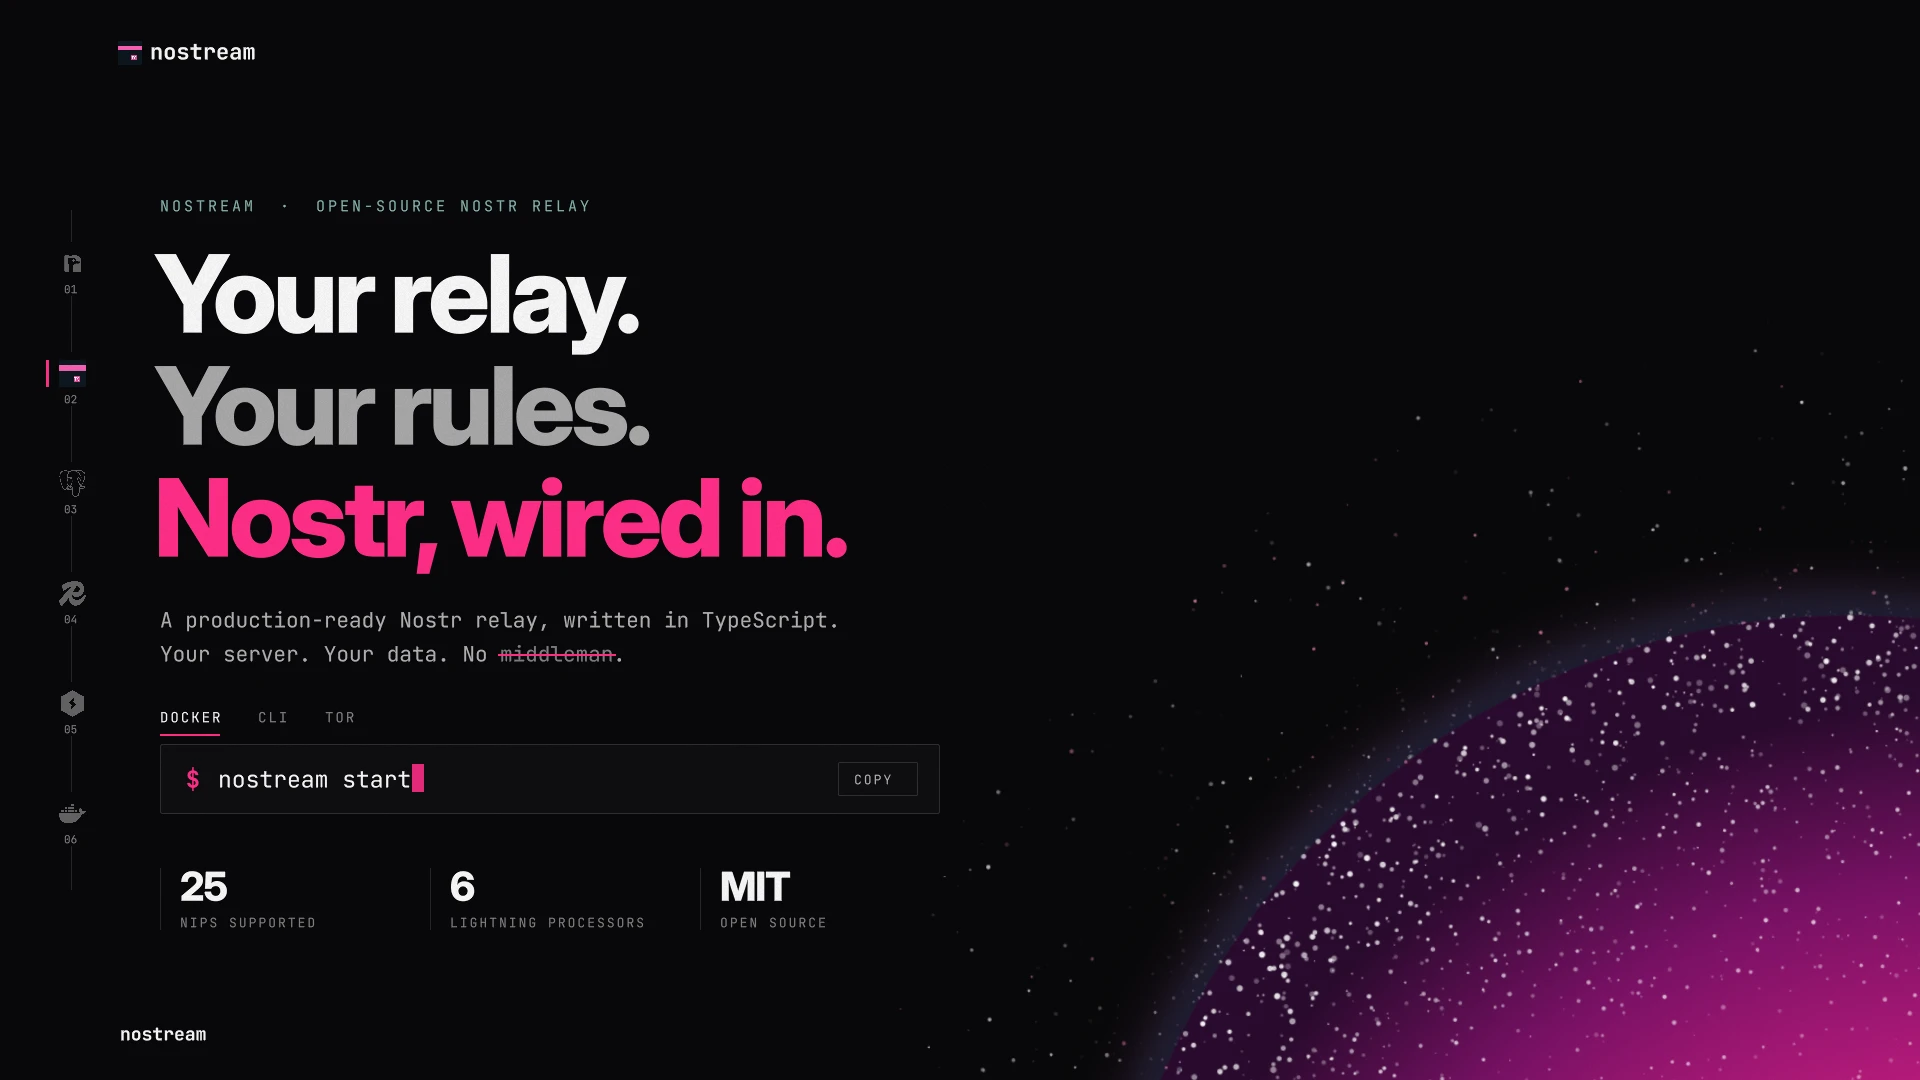
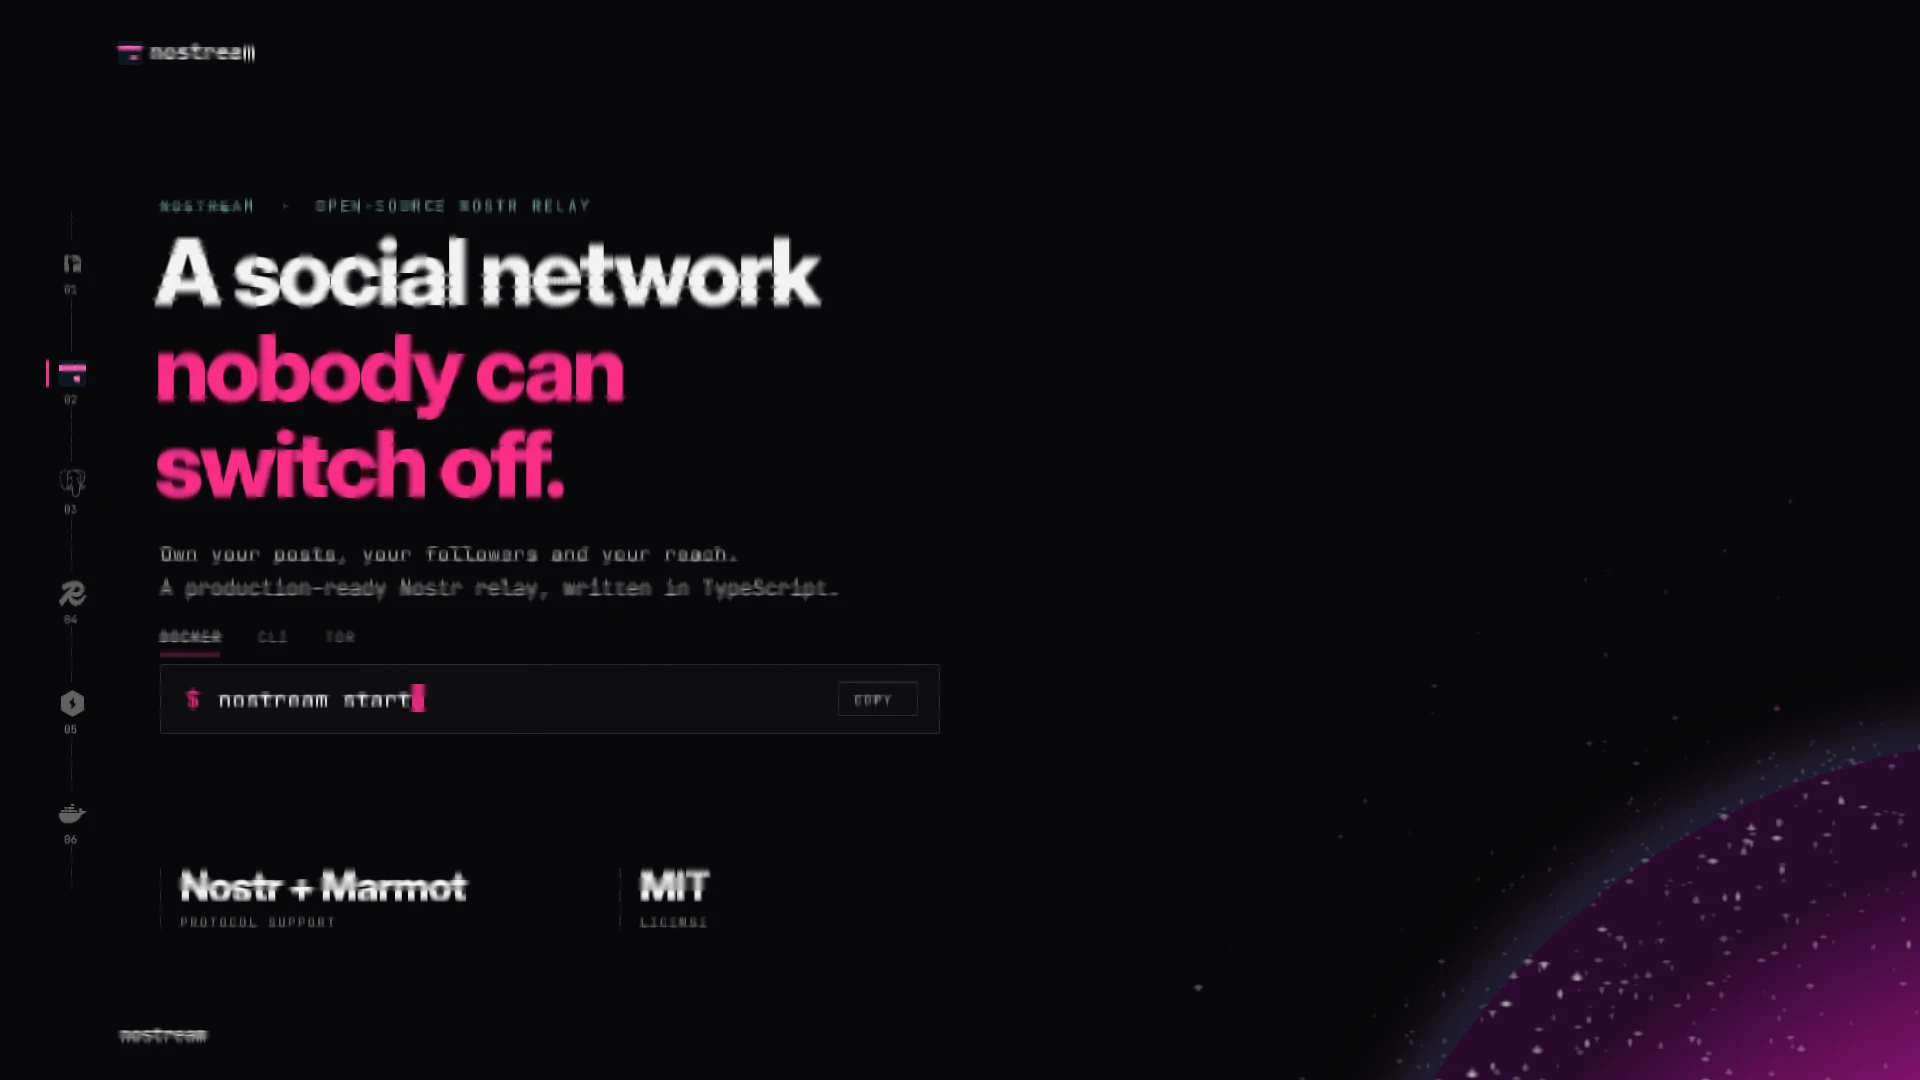
feat(website): add a social preview card and the full preview meta set (#884)
* feat(website): add a social preview card and the full preview meta set

The site shipped an og:image pointing at hero-poster.webp — a 16:9 still of the
film, which crops badly in a preview card and names the project only in passing.

scripts/build-social-card.mjs now renders one composition at both sizes the two
services want:

  public/media/social-card.png           1200x630  og:image
  public/media/github-social-preview.png 1280x640  repository social preview

Committed rather than built in CI: astro build never runs `pnpm run media`, so a
generated-not-committed file would not be in dist/ either, and the og:image URL
would 404 in the deploy. `pnpm run social` regenerates them.

Text is drawn as SVG over the woff2 files from @fontsource-variable/inter and
@fontsource/jetbrains-mono — the same packages global.css imports — so a CI
runner without Inter installed cannot silently swap the face. The backdrop is
the page's own planet at public/media/planet.webp plus the 28px dot grid from
global.css; the hero's spark stream is left out, since a still frame holds every
particle at once and the density reads as noise under the copy.

Base.astro emits the rest of the preview set: og:site_name, og:locale,
og:image:width/height/type, og:image:alt, twitter:image, twitter:image:alt,
twitter:title and twitter:description, and takes an ogImage prop that defaults
to the card. The size hints are emitted only for that card, so a caller passing
[…]

diff --git a/website/hero-animation/src/film.ts b/website/hero-animation/src/film.ts
@@ -7,7 +7,6 @@ import {
   BODY,
   DURATION,
   FG,
-  FG_2,
   FONT_MONO,
   FONT_SANS,
   FPS,
@@ -211,16 +210,17 @@ export async function buildFilm(): Promise<Composition> {
 
   const planetSize = 1700
   const haloSize = planetSize * (2000 / 1600)
+  const planetX = 1210
   const planetY: Key[] = [
-    [0, 1100],
-    [60, 520, 'power3.out'],
-    [HERO.end - 10, 505],
-    [WHAT.start + 25, 700, 'power2.inOut'],
-    [WHAT.end - 20, 710],
-    [FLOW.start + 20, 790, 'power2.inOut'],
-    [FEATURES.end - 20, 820],
-    [DEPLOY.start + 30, 500, 'power3.out'],
-    [LAST, 480],
+    [0, 1210],
+    [60, 640, 'power3.out'],
+    [HERO.end - 10, 625],
+    [WHAT.start + 25, 790, 'power2.inOut'],
+    [WHAT.end - 20, 800],
+    [FLOW.start + 20, 870, 'power2.inOut'],
+    [FEATURES.end - 20, 900],
+    [DEPLOY.start + 30, 580, 'power3.out'],
+    [LAST, 560],
   ]
   const planetOpacity: Key[] = [
     [0, 0],
@@ -235,7 +235,7 @@ export async function buildFilm(): Promise<Composition> {
   add(
     Layer.image(asset('planet'), {
       position: 'absolute',
-      x: 1000,
+      x: planetX,
       y: 1100,
       width: planetSize,
       height: planetSize,
@@ -250,7 +250,7 @@ export async function buildFilm(): Promise<Composition> {
   add(
     Layer.image(asset('sparkles'), {
       position: 'absolute',
-      x: 1000 - haloOffset,
+      x: planetX - haloOffset,
       y: 1100 - haloOffset,
       width: haloSize,
       height: haloSize,
@@ -365,43 +365,31 @@ export async function buildFilm(): Promise<Composition> {
   light('nostream', 24, heroOut)
   sceneLabel('NOSTREAM  ·  OPEN-SOURCE NOSTR RELAY', 196, 6, heroOut)
   const headline: [string, string][] = [
-    ['Your relay.', FG],
-    ['Your rules.', FG_2],
-    ['Nostr, wired in.', PINK],
+    ['A social network', FG],
+    ['nobody can', PINK],
+    ['switch off.', PINK],
   ]
   headline.forEach(([text, fill], i) => {
-    const y = 228 + i * 112
+    const y = 216 + i * 96
     add(
-      sans(text, hx - 6, y, 108, { fill, letterSpacing: -4, fontWeight: 800 }),
+      sans(text, hx - 6, y, 92, { fill, letterSpacing: -4, fontWeight: 800 }),
       show(y, { start: 12 + i * 9, end: heroOut, dy: 40, inF: 18 }),
     )
   })
 
-  const bodyY1 = 606
-  const bodyY2 = 640
+  const bodyY1 = 540
+  const bodyY2 = 574
   add(
-    mono('A production-ready Nostr relay, written in TypeScript.', hx, bodyY1, 21, { fill: BODY }),
+    mono('Own your posts, your followers and your reach.', hx, bodyY1, 21, { fill: BODY }),
     show(bodyY1, { start: 42, end: heroOut, dy: 14 }),
   )
-  const prefix = 'Your server. Your data. No '
-  const struck = 'middleman'
-  const strikeX = hx + monoWidth(prefix, 21)
-  add(mono(prefix, hx, bodyY2, 21, { fill: BODY }), show(bodyY2, { start: 48, end: heroOut, dy: 14 }))
-  add(mono(struck, strikeX, bodyY2, 21, { fill: MUTED }), show(bodyY2, { start: 48, end: heroOut, dy: 14 }))
   add(
-    mono('.', strikeX + monoWidth(struck, 21), bodyY2, 21, { fill: BODY }),
+    mono('A production-ready Nostr relay, written in TypeScript.', hx, bodyY2, 21, { fill: BODY }),
     show(bodyY2, { start: 48, end: heroOut, dy: 14 }),
   )
-  add(
-    rect(strikeX - 2, bodyY2 + 14, 0, 2, { background: PINK }),
-    show(bodyY2 + 14, { start: 66, end: heroOut }).keys('width', [
-      [66, 0],
-      [80, monoWidth(struck, 21) + 4, 'power2.out'],
-    ]),
-  )
 
-  tabs(708, 62, heroOut)
-  const heroTerm = { y: 744, w: 780 }
+  tabs(628, 62, heroOut)
+  const heroTerm = { y: 664, w: 780 }
   add(
     rect(hx, heroTerm.y, heroTerm.w, 70, {
       background: PANEL,
@@ -438,12 +426,11 @@ export async function buildFilm(): Promise<Composition> {
   copyButton(hx + heroTerm.w - 18, heroTerm.y + 18, 74, heroOut)
 
   const stats: [string, string][] = [
-    [NIP_COUNT, 'NIPS SUPPORTED'],
-    ['6', 'LIGHTNING PROCESSORS'],
-    ['MIT', 'OPEN SOURCE'],
+    ['Nostr + Marmot', 'PROTOCOL SUPPORT'],
+    ['MIT', 'LICENSE'],
   ]
   stats.forEach(([value, label], i) => {
-    const x = hx + i * 270
+    const x = hx + i * 460
     const s = 96 + i * 8
     add(rect(x, 868, 1, 62, { background: LINE }), show(868, { start: s, end: heroOut }))
     add(
@@ -483,7 +470,7 @@ export async function buildFilm(): Promise<Composition> {
       num: '03',
       title: 'nostream',
       body: 'A production-ready relay\nin TypeScript that you\ndeploy and control.',
-      tag: 'self-hosted  ·  open source',
+      tag: 'self-hosted  ·  MIT license',
     },
   ]
   const wc = { y: 430, w: 440, h: 330, gap: 140 }

diff --git a/website/site/src/scripts/spark-field.ts b/website/site/src/scripts/spark-field.ts
@@ -1,6 +1,7 @@
 /**
- * Silver dot field rising from the pink planet (CTA and film-stage sections),
- * or a left-to-right stream when the host sets data-spark-mode="stream" (home hero).
+ * Silver dot field rising from the pink planet (CTA and deploy sections).
+ * The old left-to-right stream mode is gone: the home hero used it and it made
+ * the headline unreadable (measured 2026-10-18, Cameri's call).
  */
 export function initSparkFields() {
   document.querySelectorAll<HTMLElement>('[data-spark-host]').forEach((section) => {
@@ -15,7 +16,6 @@ export function initSparkFields() {
 
     const maxPool = Number(canvas.dataset.maxPool || 260)
     const spawnChance = Number(canvas.dataset.spawnChance || 0.85)
-    const stream = section.dataset.sparkMode === 'stream'
     const perFrame = Number(canvas.dataset.perFrame || 1)
 
     let w = 0
@@ -29,7 +29,6 @@ export function initSparkFields() {
       vy: number
       life: number
       max: number
-      phase: number
       bright: boolean
     }
     const pool: P[] = []
@@ -46,31 +45,7 @@ export function initSparkFields() {
       ctx.setTransform(dpr, 0, 0, dpr, 0, 0)
     }
 
-    const leftStrip = () => Math.min(72, w * 0.085)
-
-    const spawnStream = (edge = false) => {
-      const band = (Math.random() + Math.random() + Math.random()) / 3
-      const speed = edge ? 0.25 + Math.random() * 0.95 : 0.9 + Math.random() * 2.5
-      const strip = leftStrip()
-      pool.push({
-        x: edge ? Math.random() * strip : -2 - Math.random() * 12,
-        y: h * (0.08 + band * 0.84),
-        vx: speed,
-        vy: (Math.random() - 0.5) * (edge ? 0.12 : 0.18),
-        life: 0,
-        max: edge
-          ? 140 + Math.random() * 220
-          : (w * (0.5 + Math.random() * 0.45)) / speed,
-        phase: Math.random() * Math.PI * 2,
-        bright: Math.random() < (edge ? 0.62 : 0.48),
-      })
-    }
-
     const spawn = () => {
-      if (stream) {
-        spawnStream(Math.random() < 0.62)
-        return
-      }
       const spread = w * (section.dataset.sparkSpread ? Number(section.dataset.sparkSpread) : 0.48)
       const yBase = h * (section.dataset.sparkOrigin ? Number(section.dataset.sparkOrigin) : 0.9)
       pool.push({
@@ -80,7 +55,6 @@ export function initSparkFields() {
         vy: -(0.5 + Math.random() * 1.2),
         life: 0,
         max: 80 + Math.random() * 120,
-        phase: 0,
         bright: Math.random() < 0.2,
       })
     }
@@ -91,37 +65,19 @@ export function initSparkFields() {
       for (let n = 0; n < perFrame; n++) {
         if (pool.length < maxPool && Math.random() < spawnChance) spawn()
       }
-      if (stream && pool.length < maxPool) {
-        if (Math.random() < 0.82) spawn()
-        for (let k = 0; k < 4; k++) {
-          if (pool.length < maxPool && Math.random() < 0.78) spawnStream(true)
-        }
-      }
 
       for (let i = pool.length - 1; i >= 0; i--) {
         const p = pool[i]
         p.life++
-        if (stream) {
-          p.x += p.vx
-          p.y += p.vy + Math.sin(p.life * 0.04 + p.phase) * 0.22
-        } else {
-          p.x += p.vx + Math.sin(p.life * 0.07 + i) * 0.12
-          p.y += p.vy
-          p.vy -= 0.004
-        }
+        p.x += p.vx + Math.sin(p.life * 0.07 + i) * 0.12
+        p.y += p.vy
+        p.vy -= 0.004
 
         const t = p.life / p.max
-        let alpha = t < 0.08 ? t / 0.08 : t > 0.78 ? (1 - t) / 0.22 : 1
-        if (stream) {
-          alpha *= 0.68 + 0.42 * Math.abs(Math.sin(p.life * 0.13 + p.phase))
-          if (p.x < leftStrip()) alpha = Math.min(1, alpha * 1.18)
-        }
+        const alpha = t < 0.08 ? t / 0.08 : t > 0.78 ? (1 - t) / 0.22 : 1
 
         if (p.bright) {
           ctx.fillStyle = `rgba(255,255,255,${Math.min(1, alpha)})`
-        } else if (stream) {
-          const s = 246 + (i % 5)
-          ctx.fillStyle = `rgba(${s},${s + 1},255,${Math.min(1, alpha * 0.98)})`
         } else {
           const silver = 175 + (i % 5) * 8
           ctx.fillStyle = `rgba(${silver},${silver + 6},${silver + 14},${0.92 * alpha})`
@@ -129,7 +85,7 @@ export function initSparkFields() {
 
         ctx.fillRect(Math.round(p.x), Math.round(p.y), 1, 1)
 
-        if (p.life >= p.max || p.y < -20 || p.x > w + 10) pool.splice(i, 1)
+        if (p.life >= p.max || p.y < -20) pool.splice(i, 1)
       }
 
       raf = requestAnimationFrame(tick)

diff --git a/website/hero-animation/src/build-assets.ts b/website/hero-animation/src/build-assets.ts
@@ -100,7 +100,7 @@ async function planet() {
   const rand = rng(7)
   const dots: string[] = []
 
-  for (let i = 0; i < 5200; i++) {
+  for (let i = 0; i < 1800; i++) {
     const a = rand() * Math.PI * 2
     const d = Math.sqrt(rand()) ** 0.55 * r
     const x = c + Math.cos(a) * d
@@ -176,7 +176,7 @@ async function sparkles() {
   const c = S / 2
   const rand = rng(11)
   const dots: string[] = []
-  for (let i = 0; i < 1400; i++) {
+  for (let i = 0; i < 380; i++) {
     const a = rand() * Math.PI * 2
     const d = 700 + rand() ** 1.6 * 280
     const x = c + Math.cos(a) * d

diff --git a/.changeset/social-preview-card.md b/.changeset/social-preview-card.md
@@ -1,0 +1,16 @@
+---
+'nostream-website': minor
+---
+
+Add a social preview card generated from source.
+
+`website/site/scripts/build-social-card.mjs` renders one composition at two sizes:
+`public/media/social-card.png` (1200×630, the site's `og:image`) and
+`public/media/github-social-preview.png` (1280×640, the GitHub repository preview).
+`Base.astro` now emits the full preview set — `og:image:width`, `og:image:height`,
+`og:image:alt`, `twitter:image`, `twitter:title`, `twitter:description`,
+`og:site_name`, `og:locale` — and takes an `ogImage` prop that defaults to the card;
+`hero-poster.webp` stays the film's poster.
+
+The GitHub preview is uploaded by hand: **Settings → Social preview** in the
+repository, which no workflow can set.
